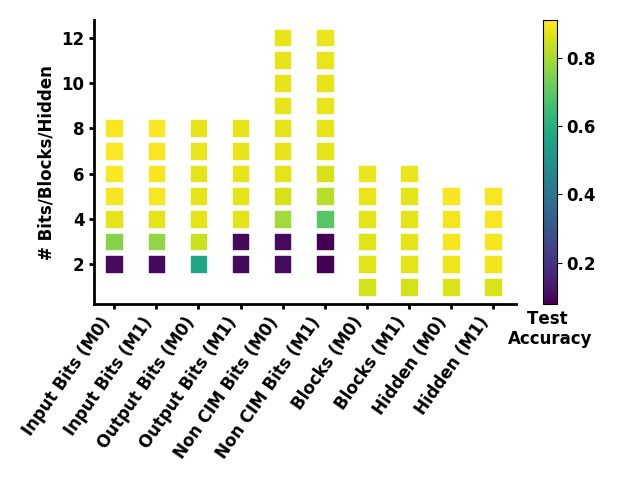
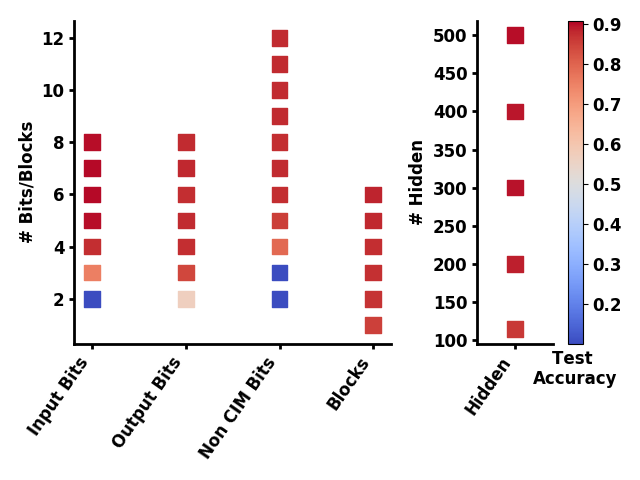
plots

Changed region(s): [[0.0312, 0.0312, 0.9688, 0.9688]]

diff --git a/plots/ISCAS_paper_figs.py b/plots/ISCAS_paper_figs.py
@@ -1,6 +1,7 @@
 import numpy as np
 import pandas as pd
 import matplotlib.pyplot as plt
+from mpl_toolkits.axes_grid1 import make_axes_locatable
 
 
 sym_marker_size = 128
@@ -43,22 +44,24 @@ def convex_hull(points):
 
 
 # CIM results
-inp_bits = (pd.read_csv("M0_InpBits.csv").dropna(), pd.read_csv("M1_InpBits.csv").dropna())
-out_bits = (pd.read_csv("M0_OutBits.csv").dropna(), pd.read_csv("M1_OutBits.csv").dropna())
-nm_bits  = (pd.read_csv("M0_NMbits.csv").dropna(), pd.read_csv("M1_NMbits.csv").dropna())
-nmsb     = (pd.read_csv("M0_NMSB.csv").dropna(), pd.read_csv("M1_NMSB.csv").dropna())
-hidden   = (pd.read_csv("M0_hidden.csv").dropna(), pd.read_csv("M1_hidden.csv").dropna())
+inp_bits = pd.read_csv("M0_InpBits.csv").dropna()
+out_bits = pd.read_csv("M0_OutBits.csv").dropna()
+nm_bits  = pd.read_csv("M0_NMbits.csv").dropna()
+nmsb     = pd.read_csv("M0_NMSB.csv").dropna()
+hidden   = pd.read_csv("M0_hidden.csv").dropna()
+
+e_comp   = pd.read_csv("e_comp.csv").dropna()
 
 
-max_acc = max(inp_bits[0][['#1','#2','#3']].max().max(), inp_bits[1][['#1','#2','#3']].max().max(), out_bits[0][['#1','#2','#3']].max().max(), out_bits[1][['#1','#2','#3']].max().max(), nm_bits[0][['#1','#2','#3']].max().max(), nm_bits[1][['#1','#2','#3']].max().max(), nmsb[0][['#1','#2','#3']].max().max(), nmsb[1][['#1','#2','#3']].max().max(), hidden[0][['#1','#2','#3']].max().max(), hidden[1][['#1','#2','#3']].max().max() )
-min_acc = min(inp_bits[0][['#1','#2','#3']].min().min(), inp_bits[1][['#1','#2','#3']].min().min(), out_bits[0][['#1','#2','#3']].min().min(), out_bits[1][['#1','#2','#3']].min().min(), nm_bits[0][['#1','#2','#3']].min().min(), nm_bits[1][['#1','#2','#3']].min().min(), nmsb[0][['#1','#2','#3']].min().min(), nmsb[1][['#1','#2','#3']].min().min(), hidden[0][['#1','#2','#3']].min().min(), hidden[1][['#1','#2','#3']].min().min() )
-max_j = max(inp_bits[0][['uJ']].max().max(), inp_bits[1][['uJ']].max().max(), out_bits[0][['uJ']].max().max(), out_bits[1][['uJ']].max().max(), nm_bits[0][['uJ']].max().max(), nm_bits[1][['uJ']].max().max(), nmsb[0][['uJ']].max().max(), nmsb[1][['uJ']].max().max(), hidden[0][['uJ']].max().max(), hidden[1][['uJ']].max().max() )
-min_j = min(inp_bits[0][['uJ']].min().min(), inp_bits[1][['uJ']].min().min(), out_bits[0][['uJ']].min().min(), out_bits[1][['uJ']].min().min(), nm_bits[0][['uJ']].min().min(), nm_bits[1][['uJ']].min().min(), nmsb[0][['uJ']].min().min(), nmsb[1][['uJ']].min().min(), hidden[0][['uJ']].min().min(), hidden[1][['uJ']].min().min() )
+max_acc = max(inp_bits[['#1','#2','#3']].max().max(), out_bits[['#1','#2','#3']].max().max(), nm_bits[['#1','#2','#3']].max().max(), nmsb[['#1','#2','#3']].max().max(), hidden[['#1','#2','#3']].max().max())
+min_acc = min(inp_bits[['#1','#2','#3']].min().min(), out_bits[['#1','#2','#3']].min().min(), nm_bits[['#1','#2','#3']].min().min(), nmsb[['#1','#2','#3']].min().min(), hidden[['#1','#2','#3']].min().min())
+max_j = max(inp_bits[['uJ']].max().max(), out_bits[['uJ']].max().max(), nm_bits[['uJ']].max().max(), nmsb[['uJ']].max().max(), hidden[['uJ']].max().max())
+min_j = min(inp_bits[['uJ']].min().min(), out_bits[['uJ']].min().min(), nm_bits[['uJ']].min().min(), nmsb[['uJ']].min().min(), hidden[['uJ']].min().min())
 
 # digital results
-d_bits = (pd.read_csv("M0_dbits.csv").dropna(), pd.read_csv("M1_dbits.csv").dropna())
-d_nmsb = (pd.read_csv("M0_dmsb.csv").dropna(), pd.read_csv("M1_dmsb.csv").dropna())
-d_hidden  = (pd.read_csv("M0_dhidden.csv").dropna(), pd.read_csv("M1_dhidden.csv").dropna())
+d_bits = pd.read_csv("M0_dbits.csv").dropna()
+d_nmsb = pd.read_csv("M0_dmsb.csv").dropna()
+d_hidden  = pd.read_csv("M0_dhidden.csv").dropna()
 
 
 ############
@@ -66,42 +69,34 @@ d_hidden  = (pd.read_csv("M0_dhidden.csv").dropna(), pd.read_csv("M1_dhidden.csv
 ############
 
 #M0
-x = np.concatenate([inp_bits[0]["uJ"], out_bits[0]["uJ"], nm_bits[0]["uJ"], nmsb[0]["uJ"], hidden[0]["uJ"]])
-y = np.concatenate([inp_bits[0][['#1', '#2', '#3']].mean(1), out_bits[0][['#1', '#2', '#3']].mean(1), nm_bits[0][['#1', '#2', '#3']].mean(1), nmsb[0][['#1', '#2', '#3']].mean(1), hidden[0][['#1', '#2', '#3']].mean(1)])
-n = np.concatenate([[str(x)+'ib' for x in inp_bits[0]["Input Bits"]], [str(x)+'ob' for x in out_bits[0]["Output Bits"]], [str(x)+'nc' for x in nm_bits[0]["Non CIM bits"]], [str(x)+'msb' for x in nmsb[0]["N MSB"]], [str(x)+'hi' for x in hidden[0]["Hidden dim"]]])
+x = np.concatenate([inp_bits["uJ"], out_bits["uJ"], nm_bits["uJ"], nmsb["uJ"], hidden["uJ"]])
+y = np.concatenate([inp_bits[['#1', '#2', '#3']].mean(1), out_bits[['#1', '#2', '#3']].mean(1), nm_bits[['#1', '#2', '#3']].mean(1), nmsb[['#1', '#2', '#3']].mean(1), hidden[['#1', '#2', '#3']].mean(1)])
+n = np.concatenate([[str(x)+'ib' for x in inp_bits["Input Bits"]], [str(x)+'ob' for x in out_bits["Output Bits"]], [str(x)+'nc' for x in nm_bits["Non CIM bits"]], [str(x)+'msb' for x in nmsb["N MSB"]], [str(x)+'hi' for x in hidden["Hidden dim"]]])
 
 points_m0 = [(x[i], y[i]) for i in range(len(x))] 
 hull_m0 = reversed(convex_hull(points_m0))
 xcim0, ycim0 =zip(*hull_m0)
 
+#M0 - possible
+x = np.concatenate([inp_bits["uJ"], out_bits["uJ"], nm_bits["uJ"], nmsb["uJ"], hidden["uJ"]])[[0,1,2,7,8,9,10,11,14,15,16,17,18,19,20,21,22,23,24,25,26,27,28,29,30,31]] 
+y = np.concatenate([inp_bits[['#1', '#2', '#3']].mean(1), out_bits[['#1', '#2', '#3']].mean(1), nm_bits[['#1', '#2', '#3']].mean(1), nmsb[['#1', '#2', '#3']].mean(1), hidden[['#1', '#2', '#3']].mean(1)])[[0,1,2,7,8,9,10,11,14,15,16,17,18,19,20,21,22,23,24,25,26,27,28,29,30,31]] 
+n = np.concatenate([[str(x)+'ib' for x in inp_bits["Input Bits"]], [str(x)+'ob' for x in out_bits["Output Bits"]], [str(x)+'nc' for x in nm_bits["Non CIM bits"]], [str(x)+'msb' for x in nmsb["N MSB"]], [str(x)+'hi' for x in hidden["Hidden dim"]]])[[0,1,2,7,8,9,10,11,14,15,16,17,18,19,20,21,22,23,24,25,26,27,28,29,30,31]] 
 
-#M1
-x = np.concatenate([inp_bits[1]["uJ"], out_bits[1]["uJ"], nm_bits[1]["uJ"], nmsb[1]["uJ"], hidden[1]["uJ"]])
-y = np.concatenate([inp_bits[1][['#1', '#2', '#3']].mean(1), out_bits[1][['#1', '#2', '#3']].mean(1), nm_bits[1][['#1', '#2', '#3']].mean(1), nmsb[1][['#1', '#2', '#3']].mean(1), hidden[1][['#1', '#2', '#3']].mean(1)])
-n = np.concatenate([[str(x)+'ib' for x in inp_bits[1]["Input Bits"]], [str(x)+'ob' for x in out_bits[1]["Output Bits"]], [str(x)+'nc' for x in nm_bits[1]["Non CIM bits"]], [str(x)+'msb' for x in nmsb[1]["N MSB"]], [str(x)+'hi' for x in hidden[1]["Hidden dim"]]])
+points_m0_p = [(x[i], y[i]) for i in range(len(x))] 
+hull_m0_p = reversed(convex_hull(points_m0_p))
+xcim0_p, ycim0_p =zip(*hull_m0_p)
 
-points_m1 = [(x[i], y[i]) for i in range(len(x))] 
-hull_m1 = reversed(convex_hull(points_m1))
-xcim1, ycim1 =zip(*hull_m1)
 
 #digital M0
-x = np.concatenate([d_bits[0]["uJ"], d_nmsb[0]["uJ"], d_hidden[0]["uJ"]])
-y = np.concatenate([d_bits[0][['#1', '#2', '#3']].mean(1), d_nmsb[0][['#1', '#2', '#3']].mean(1), d_hidden[0][['#1', '#2', '#3']].mean(1)])
-n = np.concatenate([[str(x)+'ib' for x in d_bits[0]["Bits"]], [str(x)+'msb' for x in d_nmsb[0]["N MSB"]], [str(x)+'hi' for x in d_hidden[0]["Hidden dim"]]])
+x = np.concatenate([d_bits["uJ"], d_nmsb["uJ"], d_hidden["uJ"]])
+y = np.concatenate([d_bits[['#1', '#2', '#3']].mean(1), d_nmsb[['#1', '#2', '#3']].mean(1), d_hidden[['#1', '#2', '#3']].mean(1)])
+n = np.concatenate([[str(x)+'ib' for x in d_bits["Bits"]], [str(x)+'msb' for x in d_nmsb["N MSB"]], [str(x)+'hi' for x in d_hidden["Hidden dim"]]])
 
 d_points_m0 = [(x[i], y[i]) for i in range(len(x))] 
 d_hull_m0 = reversed(convex_hull(d_points_m0))
 d_xcim0, d_ycim0 =zip(*d_hull_m0)
 
 
-#digital M1
-x = np.concatenate([d_bits[1]["uJ"], d_nmsb[1]["uJ"], d_hidden[1]["uJ"]])
-y = np.concatenate([d_bits[1][['#1', '#2', '#3']].mean(1), d_nmsb[1][['#1', '#2', '#3']].mean(1), d_hidden[1][['#1', '#2', '#3']].mean(1)])
-n = np.concatenate([[str(x)+'ib' for x in d_bits[1]["Bits"]], [str(x)+'msb' for x in d_nmsb[1]["N MSB"]], [str(x)+'hi' for x in d_hidden[1]["Hidden dim"]]])
-
-d_points_m1 = [(x[i], y[i]) for i in range(len(x))] 
-d_hull_m1 = reversed(convex_hull(d_points_m1))
-d_xcim1, d_ycim1 =zip(*d_hull_m1)
 
 
 plt.rcParams["font.weight"] = "bold"
@@ -124,15 +119,14 @@ axes.xaxis.set_tick_params(width=2)
 axes.yaxis.set_tick_params(width=2)
 
 
-axes.plot(xcim0, ycim0,'x-',color= 'red', label="CIM (M0)")
-axes.plot(xcim1, ycim1,'x-',color= 'blue', label="CIM (M1)")
-axes.plot(d_xcim0, d_ycim0,'x--',color= 'red', label="Digital (M0)")
-axes.plot(d_xcim1, d_ycim1,'x--',color= 'blue', label="Digital (M1)")
+axes.plot(xcim0, ycim0,'x-',color= 'blue', label="CIM")
+axes.plot(xcim0_p, ycim0_p,'x-',color= 'green', label="CIM (restricted)")
+axes.plot(d_xcim0, d_ycim0,'x-',color= 'red', label="Digital")
 
 
-axes.set_xlabel('Orders of Magnitude J')
+axes.set_xlabel('uJ per Decision')
 axes.set_ylabel('Accuracy')
-plt.legend(loc='upper center', bbox_to_anchor=(0.5, 1.17), ncol=2, frameon=False)
+plt.legend(loc='upper center', bbox_to_anchor=(0.5, 1.17), ncol=3, frameon=False)
 
 axes.set_xscale('log')
 
@@ -141,12 +135,9 @@ plt.savefig('frontiers.png')
 plt.close()
 
 
-
-
 ############
-# Ablation Study Energy + Accuracy
+# Ablation Study Accuracy
 ############
-
 
 
 plt.rcParams["font.weight"] = "bold"
@@ -157,52 +148,63 @@ plt.clf()
 plt.rc('font', family='sans-serif')
 plt.rc('font', weight='bold')
 plt.rc('font', size='12')
-fig, axes = plt.subplots(nrows=1, ncols=1) #
+fig, axes = plt.subplots(nrows=1, ncols=2,gridspec_kw={'width_ratios': [3, 1]}) #
+
+for axis in ['bottom','left']:
+  axes[0].spines[axis].set_linewidth(2)
+for axis in ['top','right']:
+  axes[0].spines[axis].set_linewidth(0)
+axes[0].xaxis.set_tick_params(width=2)
+axes[0].yaxis.set_tick_params(width=2)
 
 
 for axis in ['bottom','left']:
-  axes.spines[axis].set_linewidth(2)
+  axes[1].spines[axis].set_linewidth(2)
 for axis in ['top','right']:
-  axes.spines[axis].set_linewidth(0)
-axes.xaxis.set_tick_params(width=2)
-axes.yaxis.set_tick_params(width=2)
+  axes[1].spines[axis].set_linewidth(0)
+axes[1].xaxis.set_tick_params(width=2)
+axes[1].yaxis.set_tick_params(width=2)
+
+sc1 = axes[0].scatter([.5]*7, list(inp_bits['Input Bits']), c = list(inp_bits[['#1','#2','#3']].mean(1)) , marker = "s",  vmin=min_acc, vmax=max_acc, s=sym_marker_size,cmap='coolwarm')
+sc2 = axes[0].scatter([1.]*7, list(out_bits['Output Bits']), c = list(out_bits[['#1','#2','#3']].mean(1)) , marker = "s",  vmin=min_acc, vmax=max_acc, s=sym_marker_size,cmap='coolwarm')
+sc3 = axes[0].scatter([1.5]*11, list(nm_bits['Non CIM bits']), c = list(nm_bits[['#1','#2','#3']].mean(1)) , marker = "s",  vmin=min_acc, vmax=max_acc, s=sym_marker_size,cmap='coolwarm')
+sc4 = axes[0].scatter([2.]*6, list(nmsb['N MSB']), c = list(nmsb[['#1','#2','#3']].mean(1)) , marker = "s",  vmin=min_acc, vmax=max_acc, s=sym_marker_size,cmap='coolwarm')
 
 
-sc1 = axes.scatter([.5]*7, list(inp_bits[0]['Input Bits']), c = list(inp_bits[0][['#1','#2','#3']].mean(1)) , marker = "s",  vmin=min_acc, vmax=max_acc, s=sym_marker_size)
-sc2 = axes.scatter([1.5]*7, list(out_bits[0]['Output Bits']), c = list(out_bits[0][['#1','#2','#3']].mean(1)) , marker = "s",  vmin=min_acc, vmax=max_acc, s=sym_marker_size)
-sc3 = axes.scatter([2.5]*11, list(nm_bits[0]['Non CIM bits']), c = list(nm_bits[0][['#1','#2','#3']].mean(1)) , marker = "s",  vmin=min_acc, vmax=max_acc, s=sym_marker_size)
-sc4 = axes.scatter([3.5]*6, list(nmsb[0]['N MSB']), c = list(nmsb[0][['#1','#2','#3']].mean(1)) , marker = "s",  vmin=min_acc, vmax=max_acc, s=sym_marker_size)
-sc5 = axes.scatter([4.5]*5, [1,2,3,4,5], c = list(hidden[0][['#1','#2','#3']].mean(1)) , marker = "s",  vmin=min_acc, vmax=max_acc, s=sym_marker_size)
+sc5 = axes[1].scatter([1]*5, [114,200,300,400,500], c = list(hidden[['#1','#2','#3']].mean(1)) , marker = "s",  vmin=min_acc, vmax=max_acc, s=sym_marker_size,cmap='coolwarm')
+
+axes[0].set_xlabel('')
+axes[0].set_ylabel('# Bits/Blocks')
+
+axes[0].set_xticks([.5, 1., 1.5, 2])
+
+labels = [item.get_text() for item in axes[0].get_xticklabels()]
+labels[0] = 'Input Bits'
+labels[1] = 'Output Bits'
+labels[2] = 'Non CIM Bits'
+labels[3] = 'Blocks'
+
+axes[0].set_xticklabels(labels)
+plt.setp(axes[0].xaxis.get_majorticklabels(), rotation=55)
+plt.setp(axes[0].xaxis.get_majorticklabels(), ha='right')
 
 
-sc6 = axes.scatter([1]*7, list(inp_bits[1]['Input Bits']), c = list(inp_bits[1][['#1','#2','#3']].mean(1)) , marker = "s",  vmin=min_acc, vmax=max_acc, s=sym_marker_size)
-sc7 = axes.scatter([2]*7, list(out_bits[1]['Output Bits']), c = list(out_bits[1][['#1','#2','#3']].mean(1)) , marker = "s",  vmin=min_acc, vmax=max_acc, s=sym_marker_size)
-sc8 = axes.scatter([3]*11, list(nm_bits[1]['Non CIM bits']), c = list(nm_bits[1][['#1','#2','#3']].mean(1)) , marker = "s",  vmin=min_acc, vmax=max_acc, s=sym_marker_size)
-sc9 = axes.scatter([4]*6, list(nmsb[1]['N MSB']), c = list(nmsb[1][['#1','#2','#3']].mean(1)) , marker = "s",  vmin=min_acc, vmax=max_acc, s=sym_marker_size)
-sc10 = axes.scatter([5]*5, [1,2,3,4,5], c = list(hidden[1][['#1','#2','#3']].mean(1)) , marker = "s",  vmin=min_acc, vmax=max_acc, s=sym_marker_size)
+axes[1].set_xlabel('')
+axes[1].set_ylabel('# Hidden')
 
-axes.set_xlabel('')
-axes.set_ylabel('# Bits/Blocks/Hidden')
+plt.xticks([1])
 
-plt.xticks([.5, 1., 1.5, 2, 2.5, 3, 3.5, 4, 4.5, 5])
+labels = [item.get_text() for item in axes[1].get_xticklabels()]
+labels[0] = 'Hidden'
+axes[1].set_xticklabels(labels)
 
-
-labels = [item.get_text() for item in axes.get_xticklabels()]
-labels[0] = 'Input Bits (M0)'
-labels[1] = 'Input Bits (M1)'
-labels[2] = 'Output Bits (M0)'
-labels[3] = 'Output Bits (M1)'
-labels[4] = 'Non CIM Bits (M0)'
-labels[5] = 'Non CIM Bits (M1)'
-labels[6] = 'Blocks (M0)'
-labels[7] = 'Blocks (M1)'
-labels[8] = 'Hidden (M0)'
-labels[9] = 'Hidden (M1)'
-
-axes.set_xticklabels(labels)
 
 plt.xticks(rotation=55,ha='right')
-cbar = plt.colorbar(sc1)
+
+divider = make_axes_locatable(axes[1])
+cax = divider.append_axes("right", size="20%", pad=0.15)
+
+cbar = plt.colorbar(sc5, cax=cax)
 cbar.ax.set_xlabel('Test \nAccuracy')
 
 plt.legend(frameon=False)
@@ -210,10 +212,9 @@ plt.tight_layout()
 plt.savefig('acc_abl.png')
 plt.close()
 
-
-
-
-
+############
+# Ablation Study Energy
+############
 
 plt.rcParams["font.weight"] = "bold"
 plt.rcParams["axes.labelweight"] = "bold"
@@ -223,55 +224,118 @@ plt.clf()
 plt.rc('font', family='sans-serif')
 plt.rc('font', weight='bold')
 plt.rc('font', size='12')
-fig, axes = plt.subplots(nrows=1, ncols=1) #
+fig, axes = plt.subplots(nrows=1, ncols=2,gridspec_kw={'width_ratios': [3, 1]}) #
+
+for axis in ['bottom','left']:
+  axes[0].spines[axis].set_linewidth(2)
+for axis in ['top','right']:
+  axes[0].spines[axis].set_linewidth(0)
+axes[0].xaxis.set_tick_params(width=2)
+axes[0].yaxis.set_tick_params(width=2)
 
 
 for axis in ['bottom','left']:
-  axes.spines[axis].set_linewidth(2)
+  axes[1].spines[axis].set_linewidth(2)
 for axis in ['top','right']:
-  axes.spines[axis].set_linewidth(0)
-axes.xaxis.set_tick_params(width=2)
-axes.yaxis.set_tick_params(width=2)
+  axes[1].spines[axis].set_linewidth(0)
+axes[1].xaxis.set_tick_params(width=2)
+axes[1].yaxis.set_tick_params(width=2)
+
+sc1 = axes[0].scatter([.5]*7, list(inp_bits['Input Bits']), c = list(inp_bits[['uJ']].mean(1)) , marker = "s",  vmin=min_j, vmax=max_j, s=sym_marker_size,cmap='coolwarm_r')
+sc2 = axes[0].scatter([1.]*7, list(out_bits['Output Bits']), c = list(out_bits[['uJ']].mean(1)) , marker = "s",  vmin=min_j, vmax=max_j, s=sym_marker_size,cmap='coolwarm_r')
+sc3 = axes[0].scatter([1.5]*11, list(nm_bits['Non CIM bits']), c = list(nm_bits[['uJ']].mean(1)) , marker = "s",  vmin=min_j, vmax=max_j, s=sym_marker_size,cmap='coolwarm_r')
+sc4 = axes[0].scatter([2.]*6, list(nmsb['N MSB']), c = list(nmsb[['uJ']].mean(1)) , marker = "s",  vmin=min_j, vmax=max_j, s=sym_marker_size,cmap='coolwarm_r')
 
 
-sc1 = axes.scatter([.5]*7, list(inp_bits[0]['Input Bits']), c = list(inp_bits[0][['uJ']].mean(1)) , marker = "s",  vmin=min_j, vmax=max_j, s=sym_marker_size)
-sc2 = axes.scatter([1.5]*7, list(out_bits[0]['Output Bits']), c = list(out_bits[0][['uJ']].mean(1)) , marker = "s",  vmin=min_j, vmax=max_j, s=sym_marker_size)
-sc3 = axes.scatter([2.5]*11, list(nm_bits[0]['Non CIM bits']), c = list(nm_bits[0][['uJ']].mean(1)) , marker = "s",  vmin=min_j, vmax=max_j, s=sym_marker_size)
-sc4 = axes.scatter([3.5]*6, list(nmsb[0]['N MSB']), c = list(nmsb[0][['uJ']].mean(1)) , marker = "s",  vmin=min_j, vmax=max_j, s=sym_marker_size)
-sc5 = axes.scatter([4.5]*5, [1,2,3,4,5], c = list(hidden[0][['uJ']].mean(1)) , marker = "s",  vmin=min_j, vmax=max_j, s=sym_marker_size)
+sc5 = axes[1].scatter([1]*5, [114,200,300,400,500], c = list(hidden[['uJ']].mean(1)) , marker = "s",  vmin=min_j, vmax=max_j, s=sym_marker_size,cmap='coolwarm_r')
+
+#axes[1].set_xlim((.9,1.1))
 
 
-sc6 = axes.scatter([1]*7, list(inp_bits[1]['Input Bits']), c = list(inp_bits[1][['uJ']].mean(1)) , marker = "s",  vmin=min_j, vmax=max_j, s=sym_marker_size)
-sc7 = axes.scatter([2]*7, list(out_bits[1]['Output Bits']), c = list(out_bits[1][['uJ']].mean(1)) , marker = "s",  vmin=min_j, vmax=max_j, s=sym_marker_size)
-sc8 = axes.scatter([3]*11, list(nm_bits[1]['Non CIM bits']), c = list(nm_bits[1][['uJ']].mean(1)) , marker = "s",  vmin=min_j, vmax=max_j, s=sym_marker_size)
-sc9 = axes.scatter([4]*6, list(nmsb[1]['N MSB']), c = list(nmsb[1][['uJ']].mean(1)) , marker = "s",  vmin=min_j, vmax=max_j, s=sym_marker_size)
-sc10 = axes.scatter([5]*5, [1,2,3,4,5], c = list(hidden[1][['uJ']].mean(1)) , marker = "s",  vmin=min_j, vmax=max_j, s=sym_marker_size)
+axes[0].set_xlabel('')
+axes[0].set_ylabel('# Bits/Blocks')
 
-axes.set_xlabel('')
-axes.set_ylabel('# Bits/Blocks/Hidden')
+axes[0].set_xticks([.5, 1., 1.5, 2])
 
-plt.xticks([.5, 1., 1.5, 2, 2.5, 3, 3.5, 4, 4.5, 5])
+labels = [item.get_text() for item in axes[0].get_xticklabels()]
+labels[0] = 'Input Bits'
+labels[1] = 'Output Bits'
+labels[2] = 'Non CIM Bits'
+labels[3] = 'Blocks'
+
+axes[0].set_xticklabels(labels)
+plt.setp(axes[0].xaxis.get_majorticklabels(), rotation=55)
+plt.setp(axes[0].xaxis.get_majorticklabels(), ha='right')
+#axes[0].xtick_params(rotation=55) #
 
 
-labels = [item.get_text() for item in axes.get_xticklabels()]
-labels[0] = 'Input Bits (M0)'
-labels[1] = 'Input Bits (M1)'
-labels[2] = 'Output Bits (M0)'
-labels[3] = 'Output Bits (M1)'
-labels[4] = 'Non CIM Bits (M0)'
-labels[5] = 'Non CIM Bits (M1)'
-labels[6] = 'Blocks (M0)'
-labels[7] = 'Blocks (M1)'
-labels[8] = 'Hidden (M0)'
-labels[9] = 'Hidden (M1)'
+axes[1].set_xlabel('')
+axes[1].set_ylabel('# Hidden')
 
-axes.set_xticklabels(labels)
+plt.xticks([1])
+
+labels = [item.get_text() for item in axes[1].get_xticklabels()]
+labels[0] = 'Hidden'
+axes[1].set_xticklabels(labels)
+
 
 plt.xticks(rotation=55,ha='right')
-cbar = plt.colorbar(sc1)
+
+divider = make_axes_locatable(axes[1])
+cax = divider.append_axes("right", size="20%", pad=0.15)
+
+cbar = plt.colorbar(sc5, cax=cax)
 cbar.ax.set_xlabel('uJ')
 
 plt.legend(frameon=False)
 plt.tight_layout()
 plt.savefig('j_abl.png')
+plt.close()
+
+
+
+
+############
+# Composition Study
+############
+e_comp.index = [x.split('.')[-1] for x in e_comp['Unnamed: 0']]
+
+cim_ec = e_comp['CIM']
+cim_ec = cim_ec.loc[~(cim_ec==0)]
+digital_ec = e_comp['digital']
+digital_ec = digital_ec.loc[~(digital_ec==0)]
+
+plt.rcParams["font.weight"] = "bold"
+plt.rcParams["axes.labelweight"] = "bold"
+plt.rc('font', size='14')
+
+plt.clf()
+plt.rc('font', family='sans-serif')
+plt.rc('font', weight='bold')
+plt.rc('font', size='12')
+fig, axes = plt.subplots(nrows=1, ncols=2) #
+
+
+
+# for axis in ['bottom','left']:
+#   axes.spines[axis].set_linewidth(2)
+# for axis in ['top','right']:
+#   axes.spines[axis].set_linewidth(0)
+# axes.xaxis.set_tick_params(width=2)
+# axes.yaxis.set_tick_params(width=2)
+
+
+# axes.plot(xcim0, ycim0,'x-',color= 'blue', label="CIM")
+# axes.plot(xcim0_p, ycim0_p,'x-',color= 'green', label="CIM (restricted)")
+# axes.plot(d_xcim0, d_ycim0,'x-',color= 'red', label="Digital")
+
+
+# axes.set_xlabel('uJ per Decision')
+# axes.set_ylabel('Accuracy')
+# plt.legend(loc='upper center', bbox_to_anchor=(0.5, 1.17), ncol=3, frameon=False)
+
+# axes.set_xscale('log')
+
+plt.tight_layout()
+plt.savefig('comp.png')
 plt.close()
